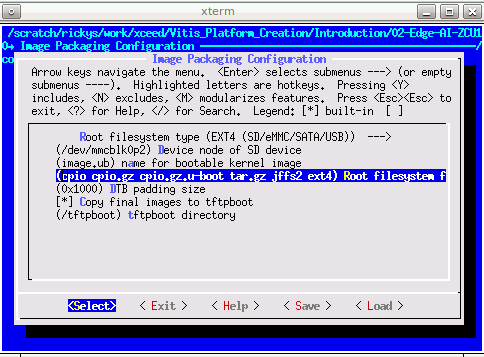
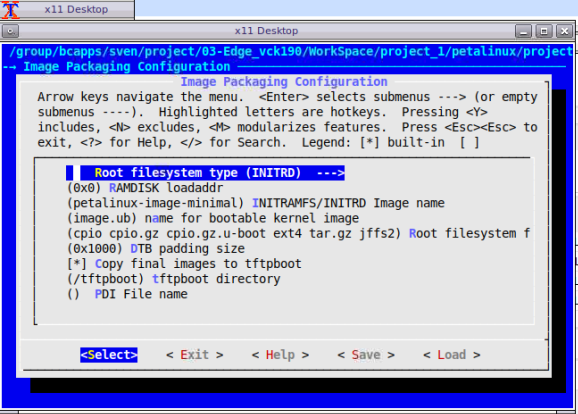
PFM: update ext4 rootfs menu entry description and screenshots (#235)
* update about how to select ext4 rootfs

* update about ho  to select ext4 rootfs

* update how to select ext4 rootfs

* update how to select ext4 rootfs for zcu104 and vck190 together

* change a small picture

diff --git a/Vitis_Platform_Creation/Introduction/03_Edge_VCK190/step2.md b/Vitis_Platform_Creation/Introduction/03_Edge_VCK190/step2.md
@@ -79,9 +79,11 @@ In this step, we'll create a PetaLinux project that includes Vitis Platform requ
    PetaLinux uses **initrd** format for rootfs by default. This format extracts rootfs in DDR memory, which means it reduces the usable DDR memory for runtime and can't retain the rootfs changes after reboot. To enable the root file system to retain changes, we'll use EXT4 format for rootfs as the second partition on SD card while keep the first partition FAT32 to store other boot files.
 
    - Run `petalinux-config`
-   - Go to **Image Packaging Configuration**, select **Root File System Type** as **EXT4**.
+   - Go to **Image Packaging Configuration**, enter into **Root File System Type** and select root file system type as **EXT4**.
 
    ![missing image](./images/step2/petalinux_root_filesystem_type.png)
+
+   - Exit and Save.
 
 
 ### Customize Device-tree   

diff --git a/Vitis_Platform_Creation/Introduction/02-Edge-AI-ZCU104/step2.md b/Vitis_Platform_Creation/Introduction/02-Edge-AI-ZCU104/step2.md
@@ -191,7 +191,8 @@ Vitis-AI applications will install additional software packages. If user would l
 
    - Run `petalinux-config`
    - Go to **Image Packaging Configuration**
-   - Select **Root File System Type** as **EXT4**
+   - Enter into **Root File System Type** 
+   - Select Root File System Type as **EXT4**
    - Exit and Save.
 
    ![missing image](./images/petalinux_image_packaging_configuration.png)
